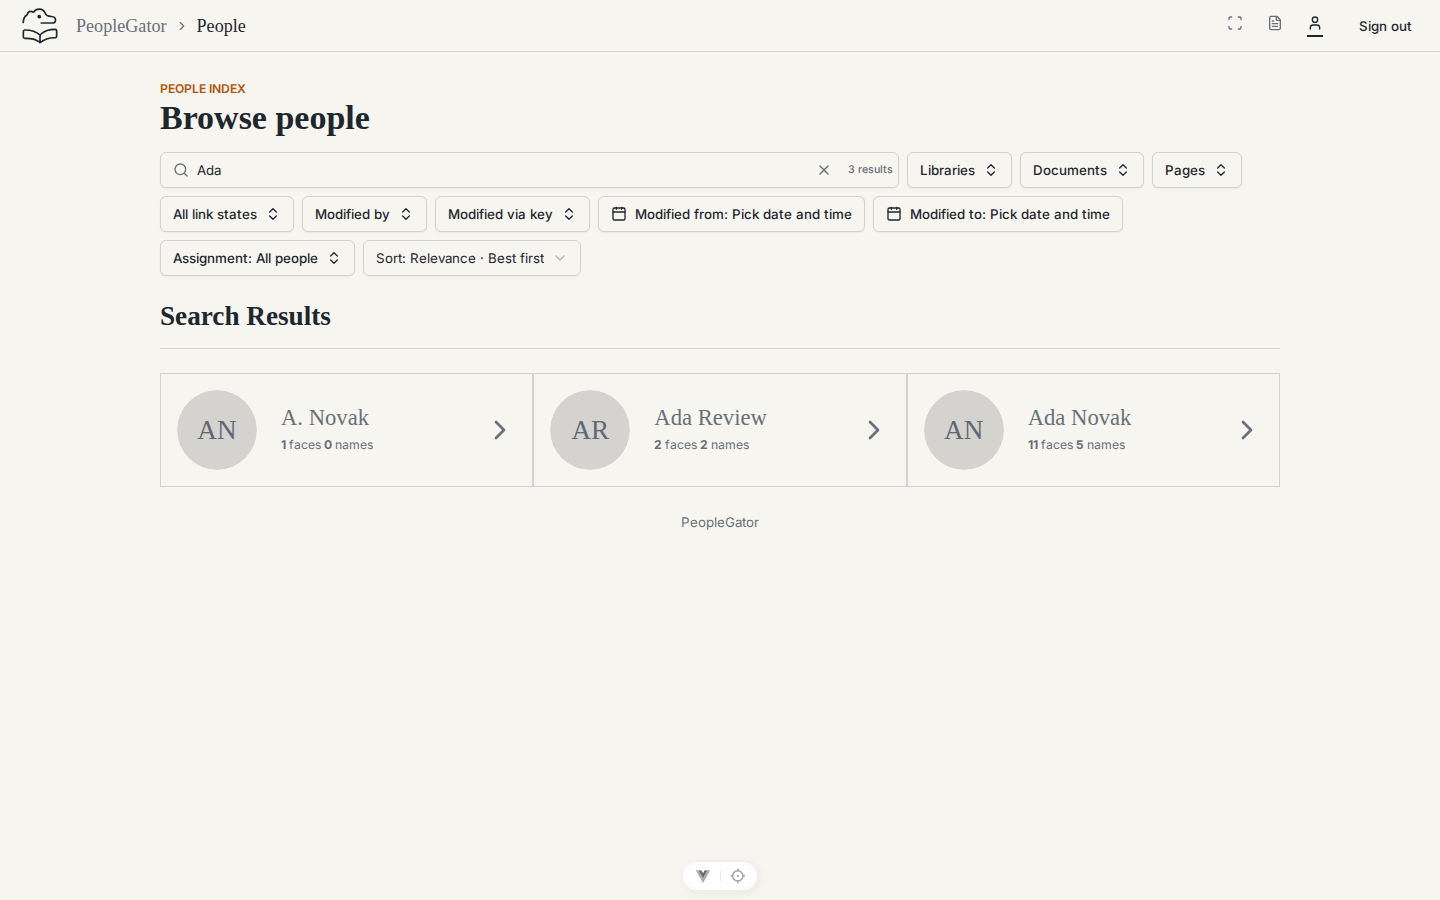
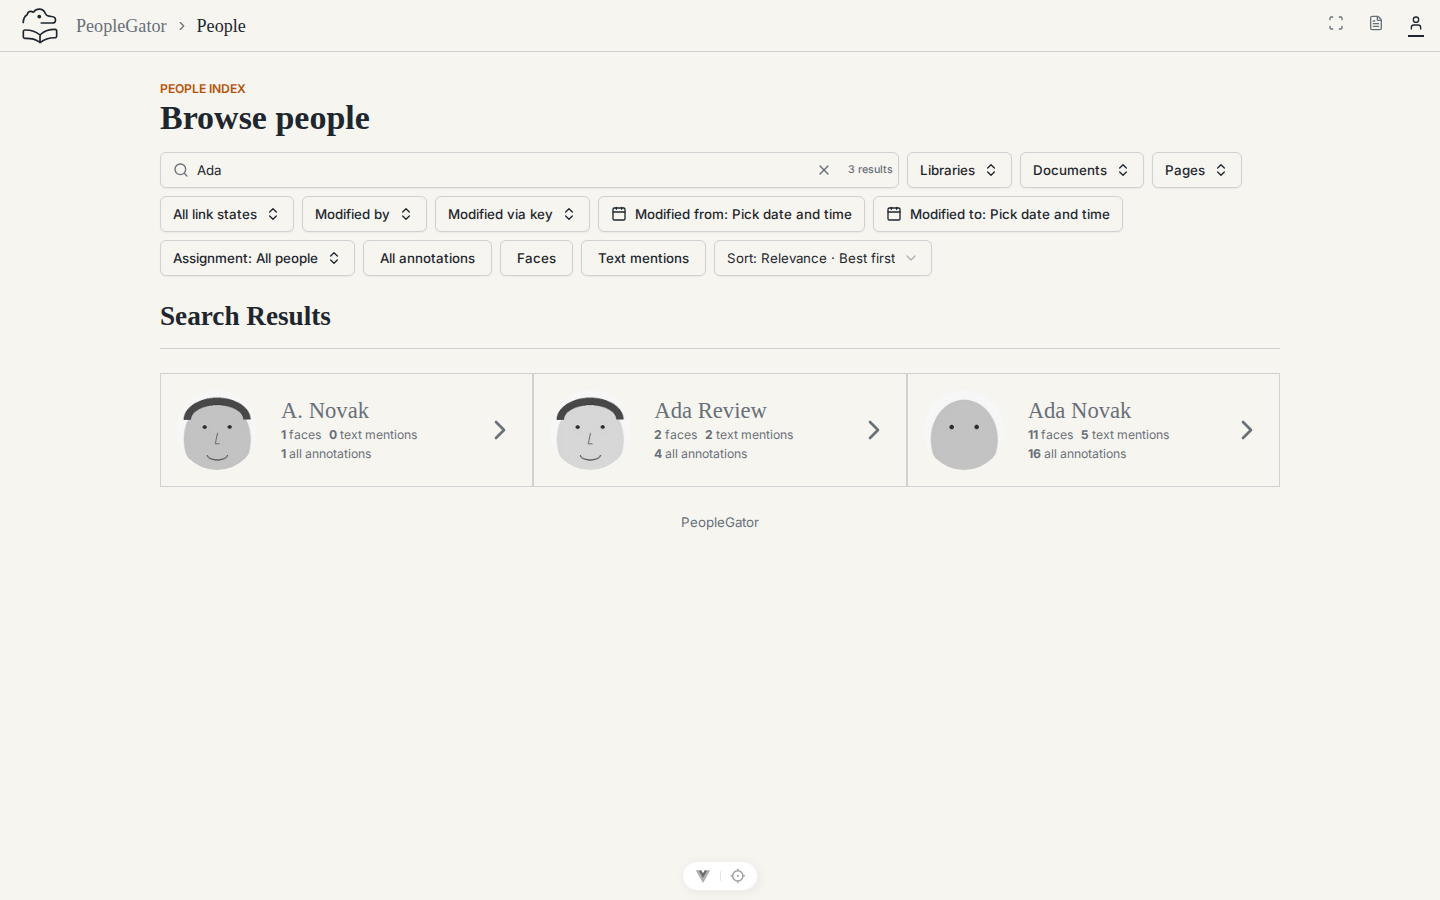
Remove sign-out control from the application header

diff --git a/people-gator-app/src/components/custom/TopBar.vue b/people-gator-app/src/components/custom/TopBar.vue
@@ -1,6 +1,4 @@
 <script setup lang="ts">
-import { Button } from '@/components/ui/button'
-import { logout } from '@/query/auth'
 import ArchiveLink from './ArchiveLink.vue'
 import { usePageLookupQuery } from '@/query/media'
 import { relatedQuery } from '@/viewmodels/shared-filters'
@@ -208,7 +206,6 @@ const isPeopleRoute = computed(
           </span>
         </RouterLink>
       </slot>
-      <Button variant="ghost" size="sm" @click="logout">Sign out</Button>
     </div>
   </nav>
 </template>

diff --git a/people-gator-api/tests/services/persistence/test_preview_seed.py b/people-gator-api/tests/services/persistence/test_preview_seed.py
@@ -3096,6 +3096,14 @@ async def test_auth_provisioning_preserves_actors_accounts_and_seed_links(seed_t
     gateway = urlsplit(seed.filter_examples["auth-attribution-login"])
     assert gateway.path == "/login.html"
     assert parse_qs(gateway.query)["return"] == [f"/people/{seed.entities['ada']}"]
+    document_gateway = urlsplit(seed.filter_examples["auth-document-navigation"])
+    assert document_gateway.path == "/login.html"
+    assert parse_qs(document_gateway.query)["return"] == ["/documents?library=preview-table"]
+    from people_gator_api.schemas.sources import DocumentListFilter
+    documents = await database.sources.list_documents(DocumentListRequest(
+        limit=100, filter_=DocumentListFilter(library=["preview-table"]),
+    ))
+    assert documents.items and all(document.library == "preview-table" for document in documents.items)
     monkeypatch.setattr(issuer_settings, "issuer", "urn:people-gator:preview-seed")
     reviewer = await database.users.get_or_create(UserCreateRequest(display_name="Reviewer",
         external_subject="reviewer", external_issuer=issuer_settings.issuer, is_active=True))

diff --git a/people-gator-api/src/people_gator_api/seeding/preview.py b/people-gator-api/src/people_gator_api/seeding/preview.py
@@ -846,6 +846,9 @@ async def seed_preview(database: Database, filesystem: Filesystem) -> SeedResult
             "auth-attribution-login": "/login.html?" + urlencode({
                 "return": f"/people/{manifest.entities['ada']}",
             }),
+            "auth-document-navigation": "/login.html?" + urlencode({
+                "return": "/documents?library=preview-table",
+            }),
             "auth-attribution-review": "/people?touched_by=" + str(actors["reviewer"].user_id),
             "document-source-touch": "/documents?library=preview-mzk&touched_by=" + str(actors["reviewer"].user_id),
             "grouped-documents": "/documents?library=preview-mzk",

diff --git a/docs/AUTHENTICATION.md b/docs/AUTHENTICATION.md
@@ -105,7 +105,7 @@ are removed; reverse-proxy compatibility paths target the standalone issuer.
 
 Refresh tokens rotate on every successful exchange. An atomic process lock
 permits one winner for concurrent reuse. Four sessions per username are retained;
-logout removes the current session. These sessions are **single-process only**:
+the logout API removes the current session. A browser sign-out control is deferred. These sessions are **single-process only**:
 run one issuer worker/replica. Restart loses sessions, and multi-worker refresh
 is unsupported. No general account platform, durable refresh database or SSO
 protocol is introduced. The browser clears a failed session and opens login once;
@@ -120,6 +120,6 @@ JWKS, rotation/cooldown/outages, alternate claim mapping and import boundaries.
 The seed lifecycle test exercises separate issuer/resource apps and attributed
 mutations through migrated PostgreSQL. `node
 people-gator-app/scripts/check-auth-gateway.mjs` runs real-browser login,
-keyboard, return navigation, refresh, expiry recovery and logout at 1440×900 and
+keyboard, return navigation, refresh and expiry recovery at 1440×900 and
 390×844. It expects the synthetic local instance at ports 5189/8089/8189 (or set
 `AUTH_GATEWAY_ORIGIN`); credentials are entered only by that local test script.

diff --git a/docs/issues/89/README.md b/docs/issues/89/README.md
@@ -4,11 +4,10 @@ Actual Chromium captures from the twice-seeded isolated instance, using separate
 issuer (8189), API (8089) and browser application (5189) processes. The gateway
 shares the browser origin with the application; issuer calls use configured CORS.
 Desktop is 1440 × 900 and mobile is 390 × 844 CSS pixels. Captures show initial
-login, failed login, expired-session recovery and returned seeded results with
-Sign out. Login fields were cleared before failed-login captures.
+login, failed login, expired-session recovery and returned seeded results and the standard header navigation. Login fields were cleared before failed-login captures.
 
 Reproduce with `node people-gator-app/scripts/check-auth-gateway.mjs` and the
 synthetic local setup in [Authentication](../../AUTHENTICATION.md). The script
 checks keyboard field/button order, full return path, successful login, refresh
-rotation, session expiry/recovery, logout, bounded page width and browser errors.
+rotation, session expiry/recovery, bounded page width and browser errors.
 No physical-device or non-Chromium checks were performed.

diff --git a/people-gator-api/docs/PREVIEW-SEEDING.md b/people-gator-api/docs/PREVIEW-SEEDING.md
@@ -1130,7 +1130,9 @@ fallback. Search/filter/sort URLs and counts retain their existing semantics.
 
 The `auth-attribution-login` link opens the separate browser gateway and returns
 to Ada Novak, whose linked faces and mentions are local synthetic fixtures.
-`auth-attribution-review` opens the reviewer attribution filter. Provision demo
+`auth-attribution-review` opens the reviewer attribution filter.
+`auth-document-navigation` returns from login to the seeded document table and
+lets reviewers check the standard header navigation; no sign-out control is shown. Provision demo
 accounts separately with `people-gator-auth-provision`; the seed contains no
 credentials. After signing in, edit a synthetic profile and inspect its last
 changed user and the user filter. The signed `uid` is the explicitly provisioned
